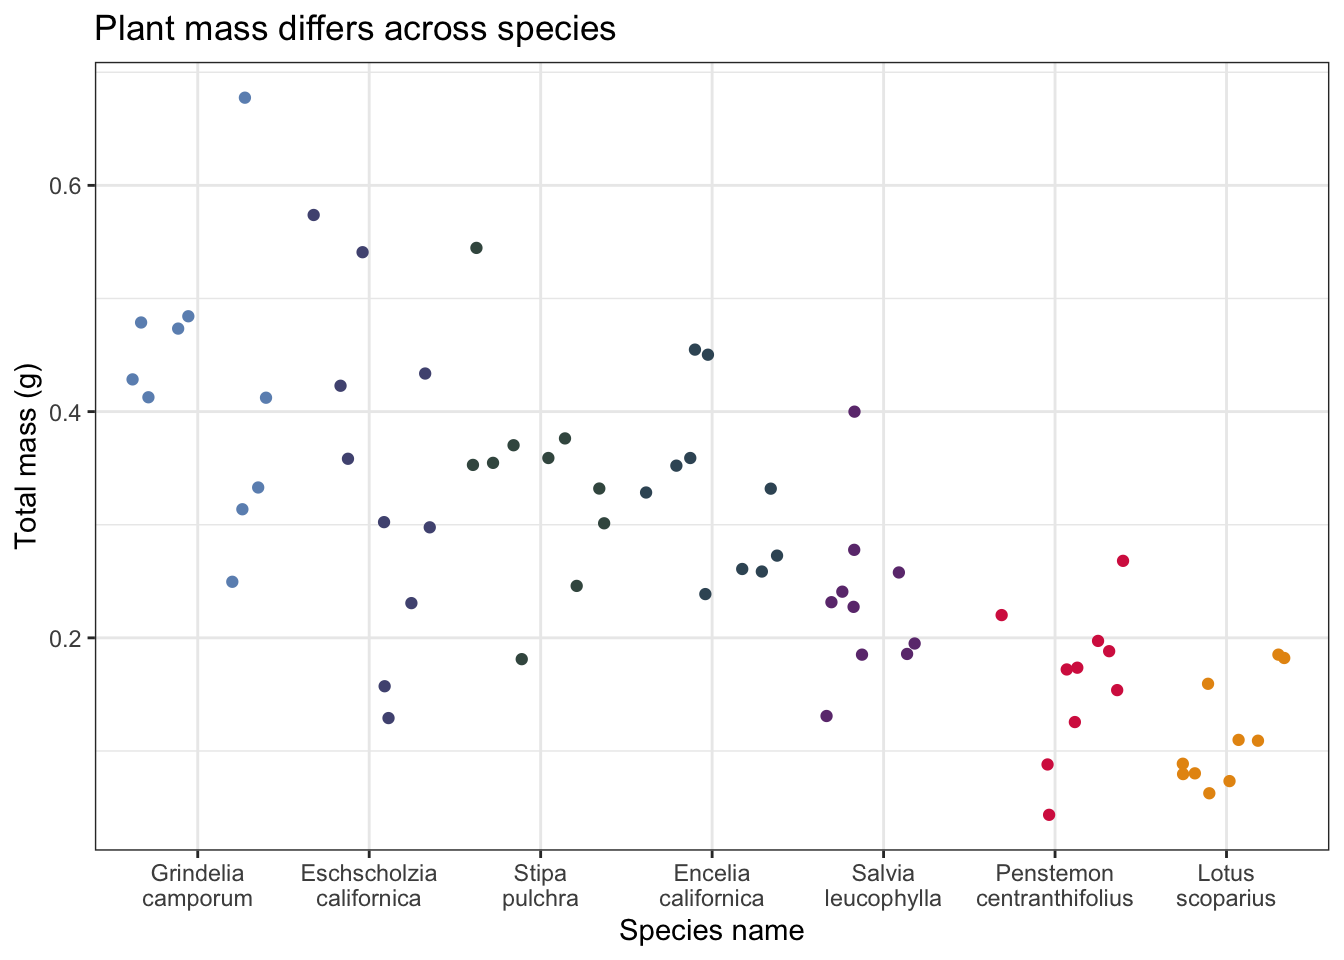
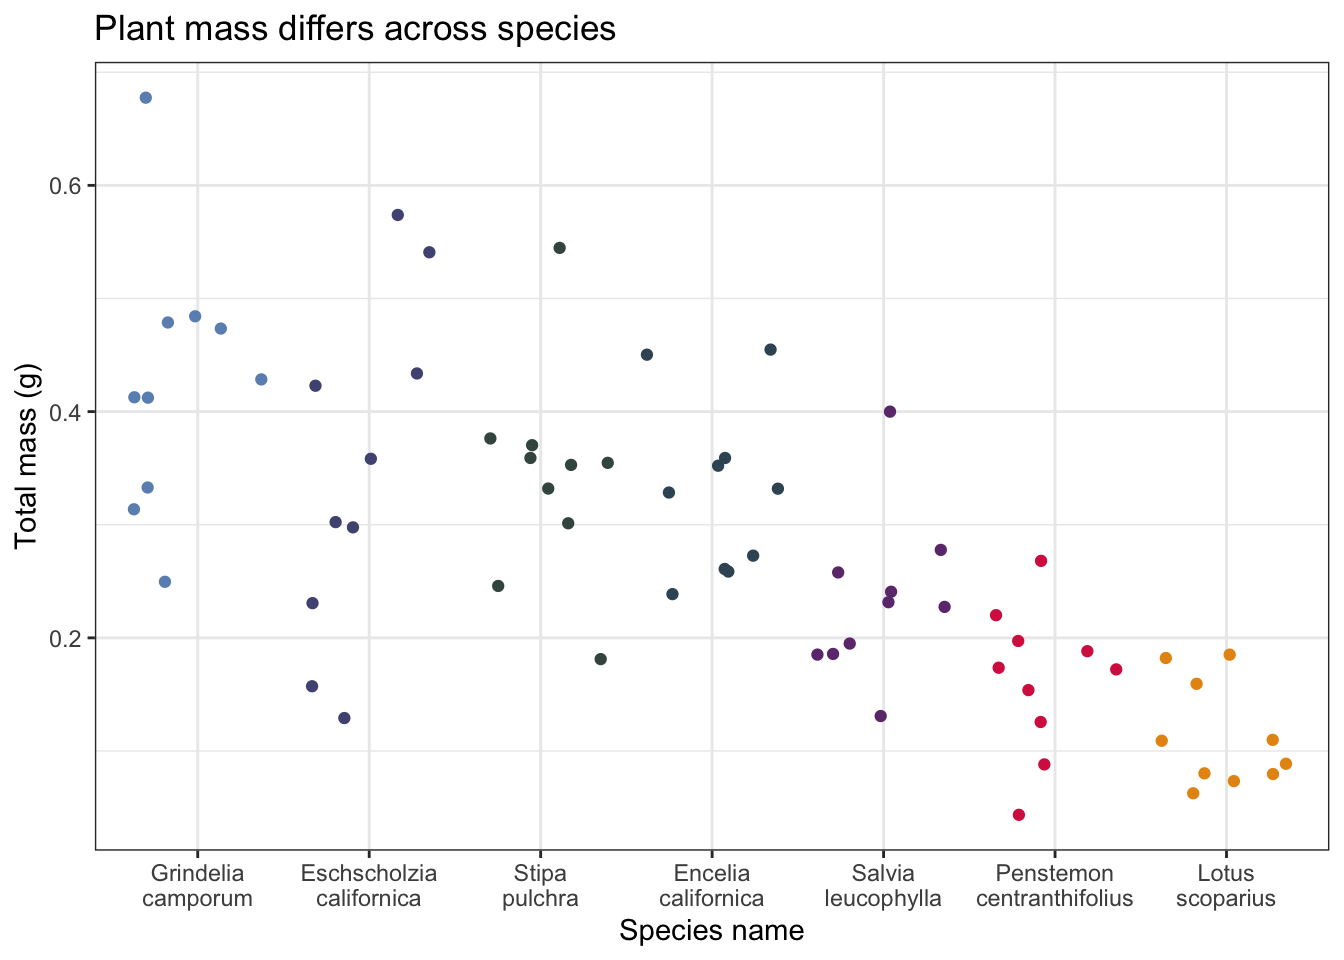
write figure captions, bullet point each part of the test and write about results

diff --git a/code/workshop-code.html b/code/workshop-code.html
@@ -73,6 +73,35 @@ pre > code.sourceCode > span > a:first-child::before { text-decoration: underlin
 <link href="workshop-code_files/libs/bootstrap/bootstrap-icons.css" rel="stylesheet">
 <link href="workshop-code_files/libs/bootstrap/bootstrap-d6a003b94517c951b2d65075d42fb01b.min.css" rel="stylesheet" append-hash="true" id="quarto-bootstrap" data-mode="light">
 
+  <script src="https://cdnjs.cloudflare.com/polyfill/v3/polyfill.min.js?features=es6"></script>
+  <script src="https://cdn.jsdelivr.net/npm/mathjax@3/es5/tex-chtml-full.js" type="text/javascript"></script>
+
+<script type="text/javascript">
+const typesetMath = (el) => {
+  if (window.MathJax) {
+    // MathJax Typeset
+    window.MathJax.typeset([el]);
+  } else if (window.katex) {
+    // KaTeX Render
+    var mathElements = el.getElementsByClassName("math");
+    var macros = [];
+    for (var i = 0; i < mathElements.length; i++) {
+      var texText = mathElements[i].firstChild;
+      if (mathElements[i].tagName == "SPAN" && texText && texText.data) {
+        window.katex.render(texText.data, mathElements[i], {
+          displayMode: mathElements[i].classList.contains('display'),
+          throwOnError: false,
+          macros: macros,
+          fleqn: false
+        });
+      }
+    }
+  }
+}
+window.Quarto = {
+  typesetMath
+};
+</script>
 
 </head>
 
@@ -301,16 +330,16 @@ pre > code.sourceCode > span > a:first-child::before { text-decoration: underlin
 <pre><code># A tibble: 10 × 4
    species_name               water_treatment    sla total_g
    &lt;fct&gt;                      &lt;fct&gt;            &lt;dbl&gt;   &lt;dbl&gt;
- 1 Penstemon centranthifolius Well watered     165.    0.197
- 2 Encelia californica        Well watered     215.    0.328
- 3 Eschscholzia californica   Drought stressed 105.    0.231
- 4 Salvia leucophylla         Drought stressed  74.4   0.131
- 5 Grindelia camporum         Drought stressed 172.    0.333
- 6 Grindelia camporum         Drought stressed 113.    0.413
- 7 Encelia californica        Drought stressed 196.    0.239
- 8 Encelia californica        Drought stressed 180.    0.332
- 9 Encelia californica        Drought stressed 161.    0.273
-10 Salvia leucophylla         Drought stressed  77.6   0.186</code></pre>
+ 1 Penstemon centranthifolius Drought stressed 146.   0.126 
+ 2 Penstemon centranthifolius Well watered     165.   0.197 
+ 3 Stipa pulchra              Well watered     163.   0.370 
+ 4 Salvia leucophylla         Well watered     127.   0.258 
+ 5 Salvia leucophylla         Well watered      96.5  0.4   
+ 6 Eschscholzia californica   Well watered     116.   0.423 
+ 7 Lotus scoparius            Drought stressed 116.   0.0802
+ 8 Stipa pulchra              Drought stressed 131.   0.301 
+ 9 Eschscholzia californica   Well watered     117.   0.574 
+10 Stipa pulchra              Well watered     161.   0.376 </code></pre>
 </div>
 </div>
 </section>
@@ -627,28 +656,76 @@ Estimated mass for drought stressed lotus scoparius 0.055 +/- 0.02 (SE) g</p>
 <p>Insert code to generate model predictions for the best model.</p>
 <p>Rename the <code>x</code> column and <code>group</code> column to match the original data frame (<code>drought_exp_clean</code>).</p>
 <p>Look at the object before plotting.</p>
+<div class="cell">
+<div class="code-copy-outer-scaffold"><div class="sourceCode cell-code" id="cb17"><pre class="sourceCode r code-with-copy"><code class="sourceCode r"><span id="cb17-1"><a href="#cb17-1" aria-hidden="true" tabindex="-1"></a>preds <span class="ot">&lt;-</span> <span class="fu">ggpredict</span>(</span>
+<span id="cb17-2"><a href="#cb17-2" aria-hidden="true" tabindex="-1"></a>  model4,</span>
+<span id="cb17-3"><a href="#cb17-3" aria-hidden="true" tabindex="-1"></a>  <span class="at">terms =</span> <span class="fu">c</span>(<span class="st">"water_treatment"</span>,</span>
+<span id="cb17-4"><a href="#cb17-4" aria-hidden="true" tabindex="-1"></a>            <span class="st">"species_name"</span>)) <span class="sc">|&gt;</span> </span>
+<span id="cb17-5"><a href="#cb17-5" aria-hidden="true" tabindex="-1"></a>    <span class="fu">rename</span>(<span class="at">water_treatment =</span> x,</span>
+<span id="cb17-6"><a href="#cb17-6" aria-hidden="true" tabindex="-1"></a>           <span class="at">species_name =</span> group) </span></code></pre></div><button title="Copy to Clipboard" class="code-copy-button"><i class="bi"></i></button></div>
+</div>
 </section>
 <section id="final-figure" class="level1">
 <h1>5. Final figure</h1>
 <p>Create a clean, publication ready figure depicting predictions for the best model and the underlying data.</p>
+<div class="cell">
+<div class="code-copy-outer-scaffold"><div class="sourceCode cell-code" id="cb18"><pre class="sourceCode r code-with-copy"><code class="sourceCode r"><span id="cb18-1"><a href="#cb18-1" aria-hidden="true" tabindex="-1"></a><span class="fu">ggplot</span>(<span class="at">data =</span> drought_exp_clean,</span>
+<span id="cb18-2"><a href="#cb18-2" aria-hidden="true" tabindex="-1"></a>       <span class="fu">aes</span>(<span class="at">x =</span> water_treatment,</span>
+<span id="cb18-3"><a href="#cb18-3" aria-hidden="true" tabindex="-1"></a>           <span class="at">y =</span> total_g,</span>
+<span id="cb18-4"><a href="#cb18-4" aria-hidden="true" tabindex="-1"></a>           <span class="at">color =</span> water_treatment)) <span class="sc">+</span></span>
+<span id="cb18-5"><a href="#cb18-5" aria-hidden="true" tabindex="-1"></a>  <span class="fu">geom_jitter</span>(<span class="at">height =</span> <span class="dv">0</span>,</span>
+<span id="cb18-6"><a href="#cb18-6" aria-hidden="true" tabindex="-1"></a>              <span class="at">width =</span> <span class="fl">0.2</span>,</span>
+<span id="cb18-7"><a href="#cb18-7" aria-hidden="true" tabindex="-1"></a>              <span class="at">alpha =</span> <span class="fl">0.5</span>,</span>
+<span id="cb18-8"><a href="#cb18-8" aria-hidden="true" tabindex="-1"></a>              <span class="at">shape =</span> <span class="dv">21</span>) <span class="sc">+</span></span>
+<span id="cb18-9"><a href="#cb18-9" aria-hidden="true" tabindex="-1"></a>  <span class="fu">geom_pointrange</span>(<span class="at">data =</span> preds,</span>
+<span id="cb18-10"><a href="#cb18-10" aria-hidden="true" tabindex="-1"></a>                  <span class="fu">aes</span>(<span class="at">x =</span> water_treatment,</span>
+<span id="cb18-11"><a href="#cb18-11" aria-hidden="true" tabindex="-1"></a>                      <span class="at">y =</span> predicted,</span>
+<span id="cb18-12"><a href="#cb18-12" aria-hidden="true" tabindex="-1"></a>                      <span class="at">ymin =</span> conf.low,</span>
+<span id="cb18-13"><a href="#cb18-13" aria-hidden="true" tabindex="-1"></a>                      <span class="at">ymax =</span> conf.high)) <span class="sc">+</span></span>
+<span id="cb18-14"><a href="#cb18-14" aria-hidden="true" tabindex="-1"></a>  <span class="fu">scale_color_manual</span>(<span class="at">values =</span> <span class="fu">c</span>(<span class="st">"Drought stressed"</span> <span class="ot">=</span> ds_col,</span>
+<span id="cb18-15"><a href="#cb18-15" aria-hidden="true" tabindex="-1"></a>                                <span class="st">"Well watered"</span> <span class="ot">=</span> ww_col)) <span class="sc">+</span></span>
+<span id="cb18-16"><a href="#cb18-16" aria-hidden="true" tabindex="-1"></a>  <span class="fu">scale_x_discrete</span>(<span class="at">labels =</span> <span class="fu">label_wrap</span>(<span class="dv">10</span>)) <span class="sc">+</span></span>
+<span id="cb18-17"><a href="#cb18-17" aria-hidden="true" tabindex="-1"></a>  <span class="fu">labs</span>(<span class="at">x =</span> <span class="st">"Treatment"</span>,</span>
+<span id="cb18-18"><a href="#cb18-18" aria-hidden="true" tabindex="-1"></a>       <span class="at">y=</span> <span class="st">"Plant mass (g)"</span>) <span class="sc">+</span></span>
+<span id="cb18-19"><a href="#cb18-19" aria-hidden="true" tabindex="-1"></a>  <span class="fu">facet_wrap</span>(<span class="sc">~</span> species_name,</span>
+<span id="cb18-20"><a href="#cb18-20" aria-hidden="true" tabindex="-1"></a>             <span class="at">nrow =</span> <span class="dv">1</span>) <span class="sc">+</span> </span>
+<span id="cb18-21"><a href="#cb18-21" aria-hidden="true" tabindex="-1"></a>  <span class="fu">theme</span>(<span class="at">legend.position =</span> <span class="st">"none"</span>)</span></code></pre></div><button title="Copy to Clipboard" class="code-copy-button"><i class="bi"></i></button></div>
+<div class="cell-output-display">
+<div>
+<figure class="figure">
+<p><img src="workshop-code_files/figure-html/Final%20publication%20figure-1.png" class="img-fluid figure-img" width="672"></p>
+</figure>
+</div>
+</div>
+</div>
 </section>
 <section id="writing" class="level1">
 <h1>6. Writing</h1>
 <section id="figure-caption" class="level2">
 <h2 class="anchored" data-anchor-id="figure-caption">Figure caption</h2>
+<p><strong>Figure 4: Plant mass (g) differs across species and treatments.</strong> Open circles represent individuals in each treatment (Red: Drought stressed, Blue: well watered treatment). Panels depict each different species. Opaque points represent model predictions for plant mass, and bars represent the 95% confidence intervals of model predictions. Data source: Valliere, Justin; Zhang, Jacqueline; Sharifi, M.; Rundel, Philip (2019). Data from: Can we condition native plants to increase drought tolerance and improve restoration success? [Dataset]. Dryad. <a href="https://doi.org/10.5061/dryad.v0861f7">https://doi.org/10.5061/dryad.v0861f7</a></p>
 </section>
 <section id="basic-components-of-test" class="level2">
 <h2 class="anchored" data-anchor-id="basic-components-of-test">Basic components of test</h2>
-<p><strong>predictors</strong></p>
-<p><strong>response</strong></p>
-<p><strong>test</strong></p>
-<p><strong>distribution</strong></p>
-<p><strong>parameters (degrees of freedom)</strong></p>
-<p><strong>test statistic</strong></p>
-<p><strong>R<sup>2</sup></strong></p>
-<p><strong>p-value</strong></p>
-<p><strong>significance level</strong></p>
-<p><strong>reference level(s)</strong></p>
+<p><strong>predictors</strong><br>
+Treatment and species</p>
+<p><strong>response</strong><br>
+Plant mass (g)</p>
+<p><strong>test</strong><br>
+Linear model (multiple linear model)</p>
+<p><strong>distribution</strong><br>
+F</p>
+<p><strong>parameters (degrees of freedom)</strong><br>
+7, 62</p>
+<p><strong>test statistic</strong> 27.08</p>
+<p><strong>R<sup>2</sup></strong><br>
+0.73</p>
+<p><strong>p-value</strong><br>
+p &lt; 0.001</p>
+<p><strong>significance level</strong><br>
+<span class="math inline">\(\alpha\)</span> = 0.05</p>
+<p><strong>reference level(s)</strong><br>
+drought stressed and well watered</p>
 </section>
 <section id="written-communication" class="level2">
 <h2 class="anchored" data-anchor-id="written-communication">Written communication</h2>
@@ -656,16 +733,20 @@ Estimated mass for drought stressed lotus scoparius 0.055 +/- 0.02 (SE) g</p>
 <h3 class="anchored" data-anchor-id="methods">Methods</h3>
 <section id="goal-of-analysis" class="level4">
 <h4 class="anchored" data-anchor-id="goal-of-analysis">Goal of analysis</h4>
+<p>We used linear models to determine the predictive relationship between specific leaf area (cm<sup>2</sup>/g), treatment, and species on plant mass (g).</p>
 </section>
 <section id="model-selection-1" class="level4">
 <h4 class="anchored" data-anchor-id="model-selection-1">Model selection</h4>
+<p>We chose the simplest model that explained the most variation in plant mass using Akaike’s Information Criterion (AIC)</p>
 </section>
 <section id="model-diagnostics-1" class="level4">
 <h4 class="anchored" data-anchor-id="model-diagnostics-1">Model diagnostics</h4>
+<p>We evaluated model assumptions for the simplest model chosen using AIC for normally distributed errors (residuals) using QQ plots and homoscedastic errors (residuals) using Residuals vs Fitted and Scale-Location plots.</p>
 </section>
 </section>
 <section id="results" class="level3">
 <h3 class="anchored" data-anchor-id="results">Results</h3>
+<p>We found that the simplest model describing variation in plant mass included species and treatment (linear model: F(7, 62) = 27.08, p &lt; 0.001, <span class="math inline">\(\alpha\)</span> = 0.05, adjusted R<sup>2</sup> = 0.73)</p>
 </section>
 </section>
 </section>
